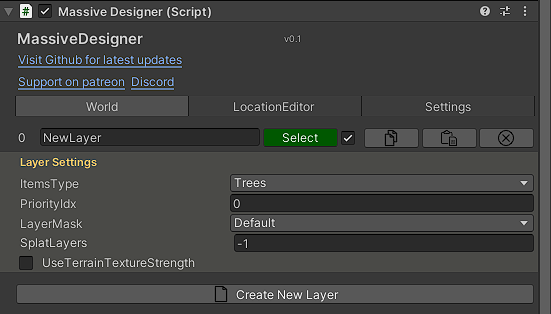
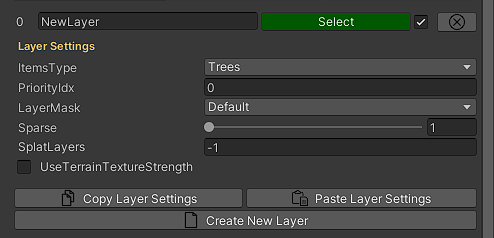
updated readme

diff --git a/README.md b/README.md
@@ -1,9 +1,22 @@
 ## MassiveDesigner
 
-MassiveDesigner is a level design tool for unity.
+![Image](Images/Showcase.png)
+
+MassiveDesigner is a level design editor plugin for Unity, it has tools for both procedural and manual level design as well as tools for creating believable AI characters.  
+With a group based workflow for organizing your objects and that can be saved and reloaded across multiple scenes and projects MD will give you completely fresh level design experience with tools for both world building and AI under one window.  
+
+Some of these tools are completely free and opensource and you can kick start your level design and modify them to your liking however for more advanced users and bigger projects there other tools available through a patreon subscription, the patreon page contains some other goodies such as level design and AI tutorials, visit the patreon page here.
+
+This repository contains instructions for installing MassiveDesigner as well as documentation for all tools and settings.  
+
+There is discord sever if you want to meet other developers using MassiveDesigner.  
+
+>  _In MassiveDesigner almost all GUI elements have an associated tool-tip detailing its usage, to see a tool-tip, hover mouse cursor over any button or GUI element to see what it does._
+
+> _For any suggestion, feedback or feature request email at CodeCreatePlay360@gmail.com_
 
 ## Installation
-Download this repository or install from one of the packages. There is a pro version of this tool with some more features available through patreon [link]().
+Download this repository and put it under Assets directory in your project or you can install from one of the packages.
 
 ## Creating a MassiveDesigner instance
 
@@ -11,19 +24,19 @@ To create a new **MassiveDesigner** instance, create an empty game object and ad
 
 The main window has 3 subsections
 1. **World** is where the level design tools are located.
-2. **LocationEditor** can be used to create and define locations in game world.
+2. **LocationTool** is used to create and define locations in game world mainly to be used by AI characters during decision making and navigation stage.
 3. **Settings** contains global settings common to all tools. 
 
 ![Image](Images/00.png)
 
 ****
 # World
-This section mostly contains tools for designing the game world such as vegetating painting, creating roads, rivers, path ways etc.
+This section mostly contains tools for designing game world such as vegetating painting, creating roads, rivers, pathways etc.
 
-## Settings up a SpawnTiles instance
+## Setting up a SpawnTiles instance
 
-Before any operations in **World** section you need to have a working **SpawnTiles** setup, objects will be spawned and stored in these tiles, to initialize **SpawnTtiles** **Settings > InitializeSpawnTiles.**  
-Turn on **DebugTiles** under **DebugOptions** to see spawned tiles.
+Before any spawn operations, you need to have a working **SpawnTiles** setup, objects will be spawned and stored in these tiles, spawn tiles can be initialized from settings window, **Settings > InitializeSpawnTiles.**  
+Turn on **DebugTiles** under **DebugOptions** to visualize the tiles.
 
 ![Image](Images/01.png)
 
@@ -36,14 +49,13 @@ To group together similar objects **MassiveDesigner** uses concept of **Layers**
 To disable a **Layer** uncheck the toggle button next to a **Layer**.  
 You can also copy a **Layer's settings** and paste it on another Layer (using the copy/paste buttons next to Layer).  
 
->  _In MassiveDesigner almost all GUI elements have an associated tooltip detailing its usage, to see a tooltip hover mouse cursor over any button or GUI element._
-
 | Setting | Description |
 | --- | --- |
-| ItemsType | Type of item stored in this layer |
+| ItemsType | Type of items stored in this layer |
 | Priority | Layer's priority |
-| LayerMask | Layer you want to paint on |
-| SplatLayer | The index of unity terrain splat layer to paint on, paint meshes will only be spawned on this terrain layer, set this to -1 to turn this feature off, to spawn at more than one layer put a comma in between different indexes for example (1, 3, 4) |
+| LayerMask | Unity's LayerMask you want to paint on |
+| Sparse | Decrease in density of spawned objects |
+| SplatLayers | The index of unity terrain's splat layer to paint on, objects will only be spawned on these splat layer, set this to -1 to turn this feature off, to spawn on more than one layer, put a comma in between different indexes (1, 3, 4) |
 | UseTerrainTextureStrength | If true, less objects will be spawned in areas with lower terrain texture strength/opacity |
 
 ## PaintMesh
@@ -53,7 +65,8 @@ You can also copy a **Layer's settings** and paste it on another Layer (using th
 A **PaintMesh** is the spawn object, any object you want to spawn via any tool should have this component.  
 To create a new **PaintMesh**, add the **PaintMesh** component to any GameObject you want to spawn.  
 **PaintMeshes** can be spawned only after they have been added to **MassiveDesigner Layer**, to add a **PaintMesh** to a **MassiveDesigner Layer**, drag them to the **LayerPrototypes** section of a **MassiveDesigner Layer**.  
-**MassiveDesigner** uses its own collision system, a **PaintMesh** can contain 2 colliders at most, trees are defined using 2 colliders, one for tree trunk and one for top branches, all other object use first collider.  
+
+**MassiveDesigner** uses its own collision system, a **PaintMesh** can contain 2 colliders at most, for example some objects like trees are better defined using 2 colliders, one for tree trunk and one for top branches (you can use just one collider if you want, however trees or similar objects are better defined using two colliders).  
 All collision related settings are defined under **PaintMesh > CollisionSettings**.
 * First collider of any **PaintMesh** is origin at pivot of GameObject, it is defined using **FirstColliderRadius**.
 * The second collider is defined using **SecondColliderRadius** and its position can be offset using **SecondColliderOffset**.
@@ -62,32 +75,36 @@ All collision related settings are defined under **PaintMesh > CollisionSettings
 
 | Setting | Description |
 | --- | --- |
-| SpecieName | Name of this specie, items of similar species for example different variations of **Birch trees** should have same specie name, this  |
+| SpecieName | Name of this specie, items of similar species for example different variations of **Birch trees** should have same specie name |
 | **SpecieSettings** | |
-| SpawnProbability | Increases the chance of selecting this paint mesh compared to other **PaintMeshes** in this layer |
-| SurvivalRate | Increases chances of survival ( only valid for _GlobalFoliageSimulation_ ) |
-| DispersionStrength | Probability of spawn of items of same specie close to each other |
+| SpawnProbability | Increases the chance of selecting this paint mesh compared to other **PaintMeshes** from this layer |
+| SurvivalRate | Increases chances of survival (only valid for foliage simulation tools) |
+| DispersionStrength | Probability of spawn of items of same specie close to each other (only valid for foliage simulation tools) |
 | **CollisionSettings** | |
 | FirstColliderRadius | Radius of first collider, origin at pivot point |
 | SecondColliderRadius | Radius of second collider, origin at SecondColliderOffset (valid only if layer items types is trees) |
+| FirstColliderOffset | Offset of first collider from origin |
 | SecondColliderOffset | Offset of second collider from origin |
+| UseFirstColliderOnly | Detect collision only on first collider only |
 | **Variation** | |
-| ScaleMultiplier | Scales the size of PaintMeshes, use this if you want to globally increase or decrease size of this PaintMesh during any spawn operation |
+| ScaleMultiplier | Scales the size of PaintMeshes, use this if you want to globally increase or decrease size of this PaintMesh when spawned |
+| Scale variation | -- |
 | RotationVariation | Rotation variation along x-z plane |
 | **Debug** | |
 | Debug | Draw a visual representation of colliders for debugging. |
+| DrawFirstCollider | If checked draws the a visual representation of first collider |
+| DrawSecondCollider | If checked draws the a visual representation of second collider |
 
- ## Debugging a PaintMesh
+**Debugging a PaintMesh**  
   At most you would want to visualize colliders of a **PaintMesh** for debugging purpose, to debug import any GameObject with **PaintMesh** component into scene and toggle on Debug under **PaintMesh** debug settings.
-
 
 
 ## FoliagePainter
 
 ![Image](Images/04.png)
 
-FoliagePainter is manual vegetation painting system of **MassiveDesigner**, it is fast and more useful at painting large objects like trees, however it can still be used to scatter small objects like grasses at a very fast rate if brush size is small.  
-To begin painting a valid unity terrain should exist in scene with a **SpawnTiles** instance covering entire terrain, after everything is setup  
+FoliagePainter is manual vegetation painting system of **MassiveDesigner**, objects are spawned as unity terrain tree objects, the FoliagePainter is fast and more useful at painting large objects like trees, however it can still be used to scatter small objects like grasses at a very fast rate if brush size is small.  
+To begin painting a valid unity terrain should exist in scene with a **SpawnTiles** instance covering entire terrain....after everything is setup  
 * control + right click drag to start painting
 * shift + right click drag to remove paint
 
@@ -97,29 +114,164 @@ To begin painting a valid unity terrain should exist in scene with a **SpawnTile
 | --- | --- |
 | **PaintSettings** | |
 | PaintMode |**Normal:** Object is not spawned if a collision is detected |
-| | **OverPaint:** Replaces objects with lower priorities with higher priority objects, if a collision occurs between them during spawn (PaintMesh priority is same as a MassiveDesigner's Layer priority). |
+| | **Replace:** Replaces objects with lower priorities with higher priority objects (A **PaintMesh's** priority is same as a Layer priority). |
 | PaintRadius | (Green circle) Spawning will take place in this radius |
-| Use All Layers | If this checked, PaintBrush will select PaintMeshes from all Layers for spawning, otherwise PaintMeshes only from selected Layer will be spawned |
-| WeightedSelection | If this is checked, More spawn chance will be given to PaintMeshes with higher spawn priorities. |
+| Use All Layers | If checked, spawner will select PaintMeshes from all Layers, otherwise PaintMeshes only from the selected Layer will be selected for spawn |
+| WeightedSelection | If this is checked, more spawn chance will be given to PaintMeshes with higher spawn priorities. |
 | **EraseSettings** | |
 | RemoveRadius | (Red circle) Spawned objects will be removed in this radius |
-| RemoveStrength | Probability of removing paint meshes |
 | RemoveOnlyOnSelectedLayer | Set this to true to only remove PaintMeshes from selected layer |
 | **BrushSettings** | |
 | SpawnDelay | Delay before next spawn operation, for most cases this should be set to **0.1**, settings this to a lower number will effect performance a lot. |
-| Opacity | Scales number of spawns per each spawn operations... by default number of spawns for each spawn op is same as PaintRadius |
+| Opacity | Scales number of spawns per each spawn operation....by default number of spawns for each spawn op is same as PaintRadius |
+ 
+## GrassPainter
 
-# Location_Editor
-**_Documentation for this section is incomplete_**
+![Image](Images/05.png)
+
+Spawns objects as unity terrain details, either globally or in a defined location.
+
+**Setting**
+
+| Setting | Description |
+| --- | --- |
+| **PaintSettings** | |
+| Use_All_Layers | If checked, spawner will select PaintMeshes from all Layers, otherwise PaintMeshes only from the selected Layer will be selected for spawn |
+| UseWightedProbability | If checked, more spawn chance will be given to PaintMeshes with higher spawn priorities. |
+| UseSimulation | Use simulation ? |
+| InsideArea | (Only valid for area paint mode) If checked spawn objects inside boundaries of area otherwise outside |
+| SpawnOnlyInCameraFOV | Spawns only in camera FOV, useful of you want to take screenshot with grass, without having to spawn on entire terrain |
+| FixedCount | If checked, spawns only on a fixed number of randomly selected cells, useful if you want to scatter some item randomly |
+| SpawmCount | If **FixedCount** is checked, determines the number of objects to be spawned, where maximum number of objects is **_Detail resolution * Detail resolution_**. |
+| DetailResolutionPerPatch | -- |
+| DetailResolution | -- |
+| **SimulationSettings** | |
+| SeedCount | Initial number of seeds spawned (per each PaintMesh) for simulation |
+| **RemoveSettings** | |
+| RemoveOnlyOnSelectedLayer | If checked, items only from the selected Layer will be removed when **Clear** button is pressed. |
+| RemoveFromInsideArea | If checked, remove objects only from inside the boundaries of area when **Clear** button is pressed, otherwise removes from outside. |
+| **Debug** | |
+| Debug | -- |
+
+## Other
+### 1. __Serialization
+**MassiveDesigner** does not automatically serializes data, when entering play mode or during editor reload, data will be lost, so you will have to manually save and reload data and for that you will have to create a new MD save file script-able object **Create > MassiveDesigner > SaveData** and hook this into **Settings > SaveDataObj**, after that go to **World > Save Data/Reload Data From File** to actually save and reload data.  
+You can have multiple variations of **SaveData** files to have multiple variations of world design in same level.
+
+# Location_Tool
+
+![Image](Images/06.png)
+
+The purpose of this tool is to define locations in game world to be used by AI characters during navigation and decision making stage.  
+Game objects which otherwise are nothing but static meshes can have meaning associated to them and have boundaries and special destinations assigned.  
+
+An example would during rain the AI characters can search for nearest locations of type **Rain Shelter**, this could be their home or anything and move there.
+
+All locations are stored globally in an **LT_Globals** static class and provide methods to access locations based on various parameters such as nearest location of type, location by name etc.
+
+Besides this location tool provides some enhanced navigation systems build on top of Unity's navmesh.  
+For a complete step by step on usage on this tool visit the tutorial section.
 
 ****
 ## Known issues
-
+1. 
 
 ## Roadmap
 **For version 1.0**
-1. Right now there is no dedicated renderer for MassiveDesigner, foliage is spawned as Unity terrain tree object or a terrain detail object, so a foliage renderer is top most priority for v1.0.
-2. Add builtin foliage shaders.
+1. There is no dedicated renderer, foliage is spawned either as Unity terrain tree objects or a terrain detail object, so a foliage renderer is top most priority for v1.0.
+2. Add builtin foliage and terrain shaders.
+3. Streaming support for **SpawnTiles**.
+4. Some decision making algorithm (probably GOAP or BT) for AI characters.
+5. Massive designer's Layers will be changed to scriptable **"MD_Group"** objects to make them more flexible to reuse across multiple scenes and projects.
 
 ## Support
-* [Discord server](https://discord.gg/ZbYRKtN6pg)
+* [Discord](--)
+* CodeCreatePlay360@gmail.com
+
+****
+## Tutorials
+### __Creating a forest using using MassiveDesigner
+
+Open the demo scene, **MassiveDesigner > Demo > WorldDesign > Scenes > WorldDesignDemo**, it has a terrain game object and some post processing set up.
+
+| ![Image](Tutorial/Images/DemoEnvironment_00.png) |
+| :--: |
+| ![Image](Tutorial/Images/DemoEnvironment_01.png) |
+| Demo environment |
+
+Create the unique unity LayerMask, rename it appropriately and set your terrain to use this LayerMask.  
+
+Add an empty game object and add the MassiveDesigner component.  
+
+First you will need all the assets, some trees, bushes and grasses, wild flowers, rocks etc.
+
+| ![Image](Tutorial/Images/1a.png) |
+| :--: |
+| ![Image](Tutorial/Images/1b.png) |
+| Foliage assets | 
+
+Drag them into the scene and add the **PaintMesh** component to them, in scene view the only setting that matters is **Collision setting**, all other settings can be modified on the fly (_MD uses its own simplified collision system for collision detection during spawn_), **Trees are best defined using two colliders one for base trunk and one for top branches, all other objects can be defined using one collider, however this is only for convenience, the behavior can be changed.**  
+
+In **PaintMesh** settings turn on all debug options under **Debug** label and tweak colliders radii and offsets to roughly fit your mesh.
+
+| ![Image](Tutorial/Images/02.png) |
+| :--: |
+| Collision settings | 
+
+Before any spawn operation you need a **SpawnTiles** instance covering the entire terrain, this can be set via **MD > Settings > CreateTiles**, its OK if your terrain size and **SpawnTiles** grid size do not match.  
+
+| ![Image](Tutorial/Images/03.png) |
+| :--: |
+| Spawn tiles covering entire terrain |
+
+Next step is creating the MD layers, to keep things simple, I have only created 5 Layers, it is convenient if Layers are arranged in some order, for example I have set them to descending order of their collision radii, but you can go in any order you like.  
+Also make sure to set the LayerMask property for all MD Layers to use the LayerMask you have set for terrain game object.  
+
+
+| ![Image](Tutorial/Images/04.png) |
+| :--: |
+| Basic Layers setup |
+
+As you can see in the demo environments screen shots, terrain has two distinct features mainly the cliffs and flat ground, we only want to paint foliage on flat ground and not on cliffs, excluding these areas manually would be very time consuming, so we would automate this by setting our MD Layers to paint only on selective terrain texture layers, do this by typing in the terrain texture layers indexes separated by comma in a MD Layer's **SplatLayers** property.
+
+| ![Image](Tutorial/Images/04a.png) |
+| :--: |
+| Terrain layers of this demo environment |
+
+| ![Image](Tutorial/Images/04b.png) |
+| :--: |
+| SplatLayer property of MD Layer corresponding to terrain layers |
+
+Larger scene elements should be scattered first, so we will begin by scattering the trees from the first two layers, open the **FoliagePainter** tool drop down,
+Select the first layer to start scattering the first group of trees, make sure **UseAllLayers** property of **FoliagePainter** is toggled off.  
+* Click the **Start Paint** button and in the scene view hold **control + left mouse button** to begin paint.
+* To remove paint **shift + left mouse button**.
+
+Now to spawn from second Layer, select the second Layer, increase its **PriorityIdx** value and in the **FoliagePainter** tool, set the **PaintMode** to **Replace**, this would replace any colliding items from Layers of lower priorities with items of higher priority values.  
+Now paint over the trees from the first Layer.
+
+| ![Image](Tutorial/Images/05.png) |
+| :--: |
+| ![Image](Tutorial/Images/06.png) |
+| Trees |
+
+Select the third **Layer** I.E bushes, set brush mode to **Normal** and start painting the bushes, since their radii is small, they would be spawned in between the trees.
+
+| ![Image](Tutorial/Images/07.png) |
+| :--: |
+| Trees + bushes |
+
+Now its time to scatter the grass, unlike the trees grass can only be scattered globally or for more precise control, within some defined boundaries.  
+There are a lot of settings in **GrassPainter** tool, however here we only need to spawn globally, select the Layer with grasses in it, and hit the **Paint** button, modify the **Density** property to get more or less grass.
+
+| ![Image](Tutorial/Images/08.png) |
+| :--: |
+| ![Image](Tutorial/Images/09.png) |
+| Trees + bushes + Grasses |
+
+Finally to scatter the wild flowers, select the Layer with the flowers and repeat the steps just like for grass scattering.
+
+| ![Image](Tutorial/Images/10.png) |
+| :--: |
+| ![Image](Tutorial/Images/11.png) |
+| Final result |
